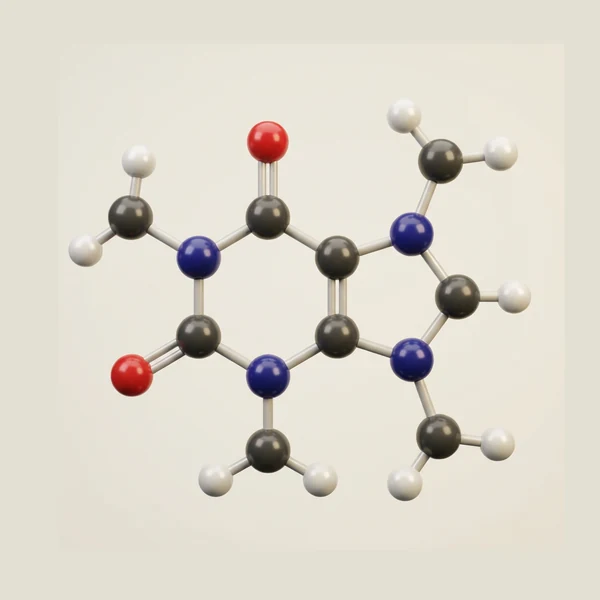
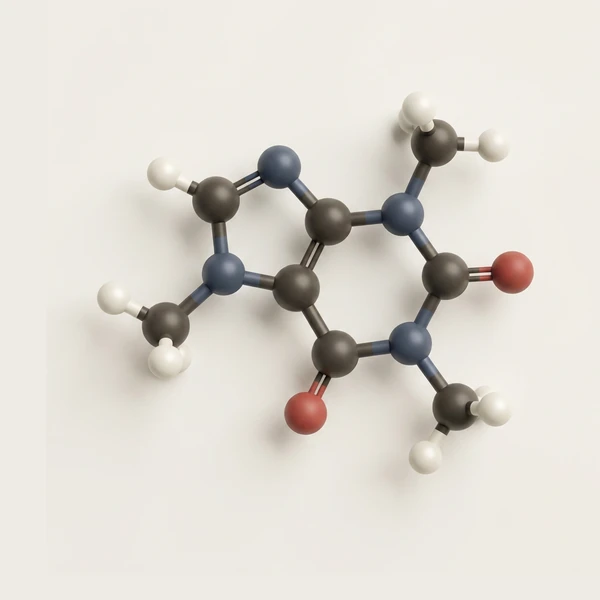
Give the 404 a chemically correct caffeine molecule
The generated molecule was wrong. Five text-to-image attempts across three
jobs all returned structures that are not caffeine, and the last two failed
identically with a fourth methyl on N9, so the model gets this wrong
reliably rather than unluckily. More rerolls were not the answer.

The structure is now built rather than drawn (D-50). RDKit parses the SMILES
CN1C=NC2=C1C(=O)N(C)C(=O)N2C, and five assertions fail the script if the
result is not caffeine: formula C8H10N4O2, one five-membered ring and one
six, exactly three methyl groups with all three on nitrogen, no
nitrogen-oxygen bond anywhere, exactly two carbonyls. Geometry comes from
ETKDGv3 with a fixed seed and MMFF94 relaxation, then the molecule is turned
by principal component analysis so its flat ring system faces the camera.

That structure is rendered ball-and-stick with 3Dmol.js in a headless
browser and passed to OpenArt as an image2image reference, so the picture is
still generated as asked but its chemistry comes from the structure file
rather than from the model. A restyle can still alter chemistry, so both
returned variants were checked against the reference; both survived. The
second was chosen because its slimmer dark bonds hold together at 200px,
where the paler ones wash out.

The existing uml4selectivity environment already had RDKit 2026.03.1, so no
new environment was created.

The design spec now carries the method, because any future replacement
[…]

Changed region(s): [[0.12, 0.15, 0.9, 0.84]]

diff --git a/.claude/rules/website-design.md b/.claude/rules/website-design.md
@@ -318,10 +318,19 @@ Centred in a `min-height: 62vh` flex column. In order: a `200px` circular image 
 `object-fit: cover`, `margin-bottom: 28px`; the page `h1`; one line of `--secondary` body text capped
 at `42ch`; then the site's pill button reading **Back to the home page** at `margin-top: 28px`.
 
-The image is `/images/404-molecule.webp`, generated with the OpenArt connector. Its `alt` is
-deliberately empty: it says nothing the heading does not, so a screen reader should skip it rather
-than stop to describe decoration. The circular mask is the same treatment as the profile photograph,
-which is what ties the two pages together.
+The image is `/images/404-molecule.webp`, a caffeine molecule. Its `alt` is deliberately empty: it
+says nothing the heading does not, so a screen reader should skip it rather than stop to describe
+decoration. The circular mask is the same treatment as the profile photograph, which is what ties the
+two pages together.
+
+**How that image was made matters, and any replacement must be made the same way (D-50).** Asking an
+image model for a named molecule does not work: five text-to-image attempts all returned structures
+that were not caffeine, twice failing identically. The structure is instead built from a SMILES
+string with RDKit, asserted correct in code (formula, ring sizes, three methyls all on nitrogen, no
+nitrogen-oxygen bond, two carbonyls), rendered ball-and-stick with 3Dmol.js, and only then passed to
+OpenArt as an image2image reference for restyling. The restyle can still alter chemistry, so the
+output is checked against the reference before it is used. Never ship a generated molecule that has
+not been through that check.
 
 ### Tag pill
 
